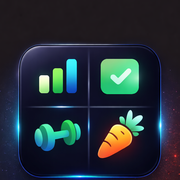
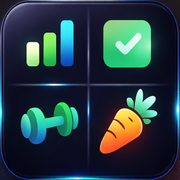
Add files via upload

diff --git a/styles.css b/styles.css
@@ -69,9 +69,7 @@ body{
   /* Fill the square like a real app icon */
   object-fit:cover;
   padding:0;
-  /* Optical balance: slightly denser + tiny vertical correction */
-  transform: scale(1.035) translateY(-0.5px);
-  border-radius:13px;
+  border-radius:0;
 }
 
 /* Premium micro-interaction just for the logo */

diff --git a/app.js b/app.js
@@ -296,7 +296,7 @@ function habitDisplayName(h){
 
   
   // ===== THEME_MODE v6.2.5 (manual light/dark) =====
-const APP_VERSION = "8.1";
+const APP_VERSION = "8.2";
 const THEME_KEY = "bl_theme_mode"; // light | dark
 
 // NOTE v6.9.2: Light theme is temporarily locked.

diff --git a/sw.js b/sw.js
@@ -1,5 +1,5 @@
-// LifeSync v8.1 SAFE SERVICE WORKER (no addAll)
-const CACHE_NAME = "lifesync-v8.1.0";
+// LifeSync v8.2 SAFE SERVICE WORKER (no addAll)
+const CACHE_NAME = "lifesync-v8.2.0";
 self.addEventListener("install", event => {
   self.skipWaiting();
 });
